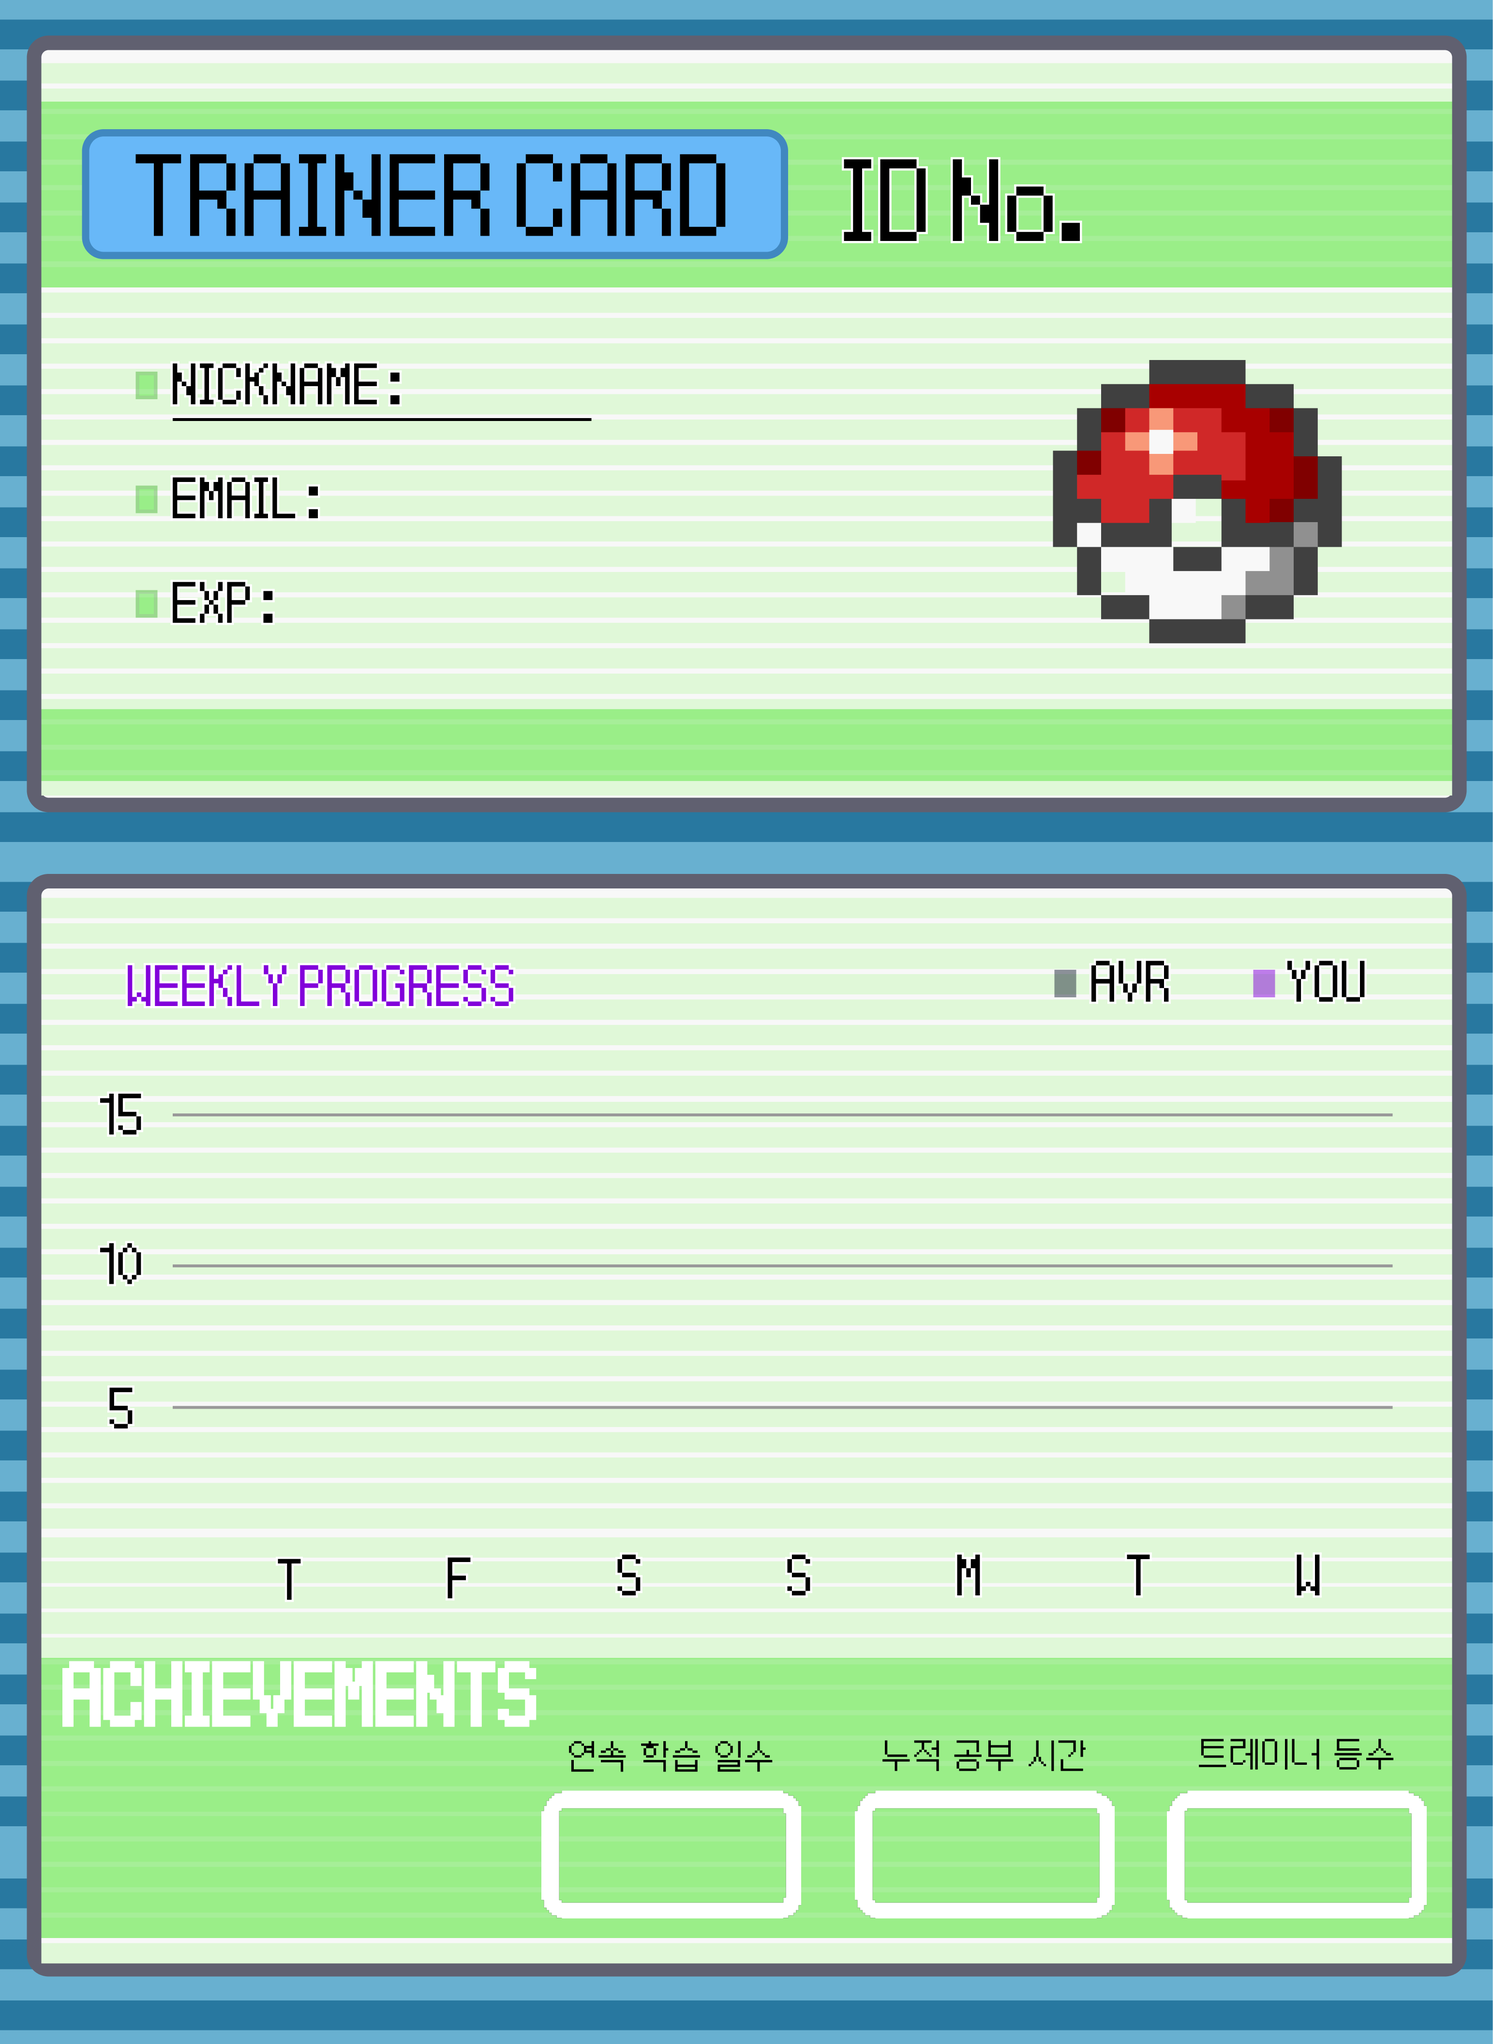
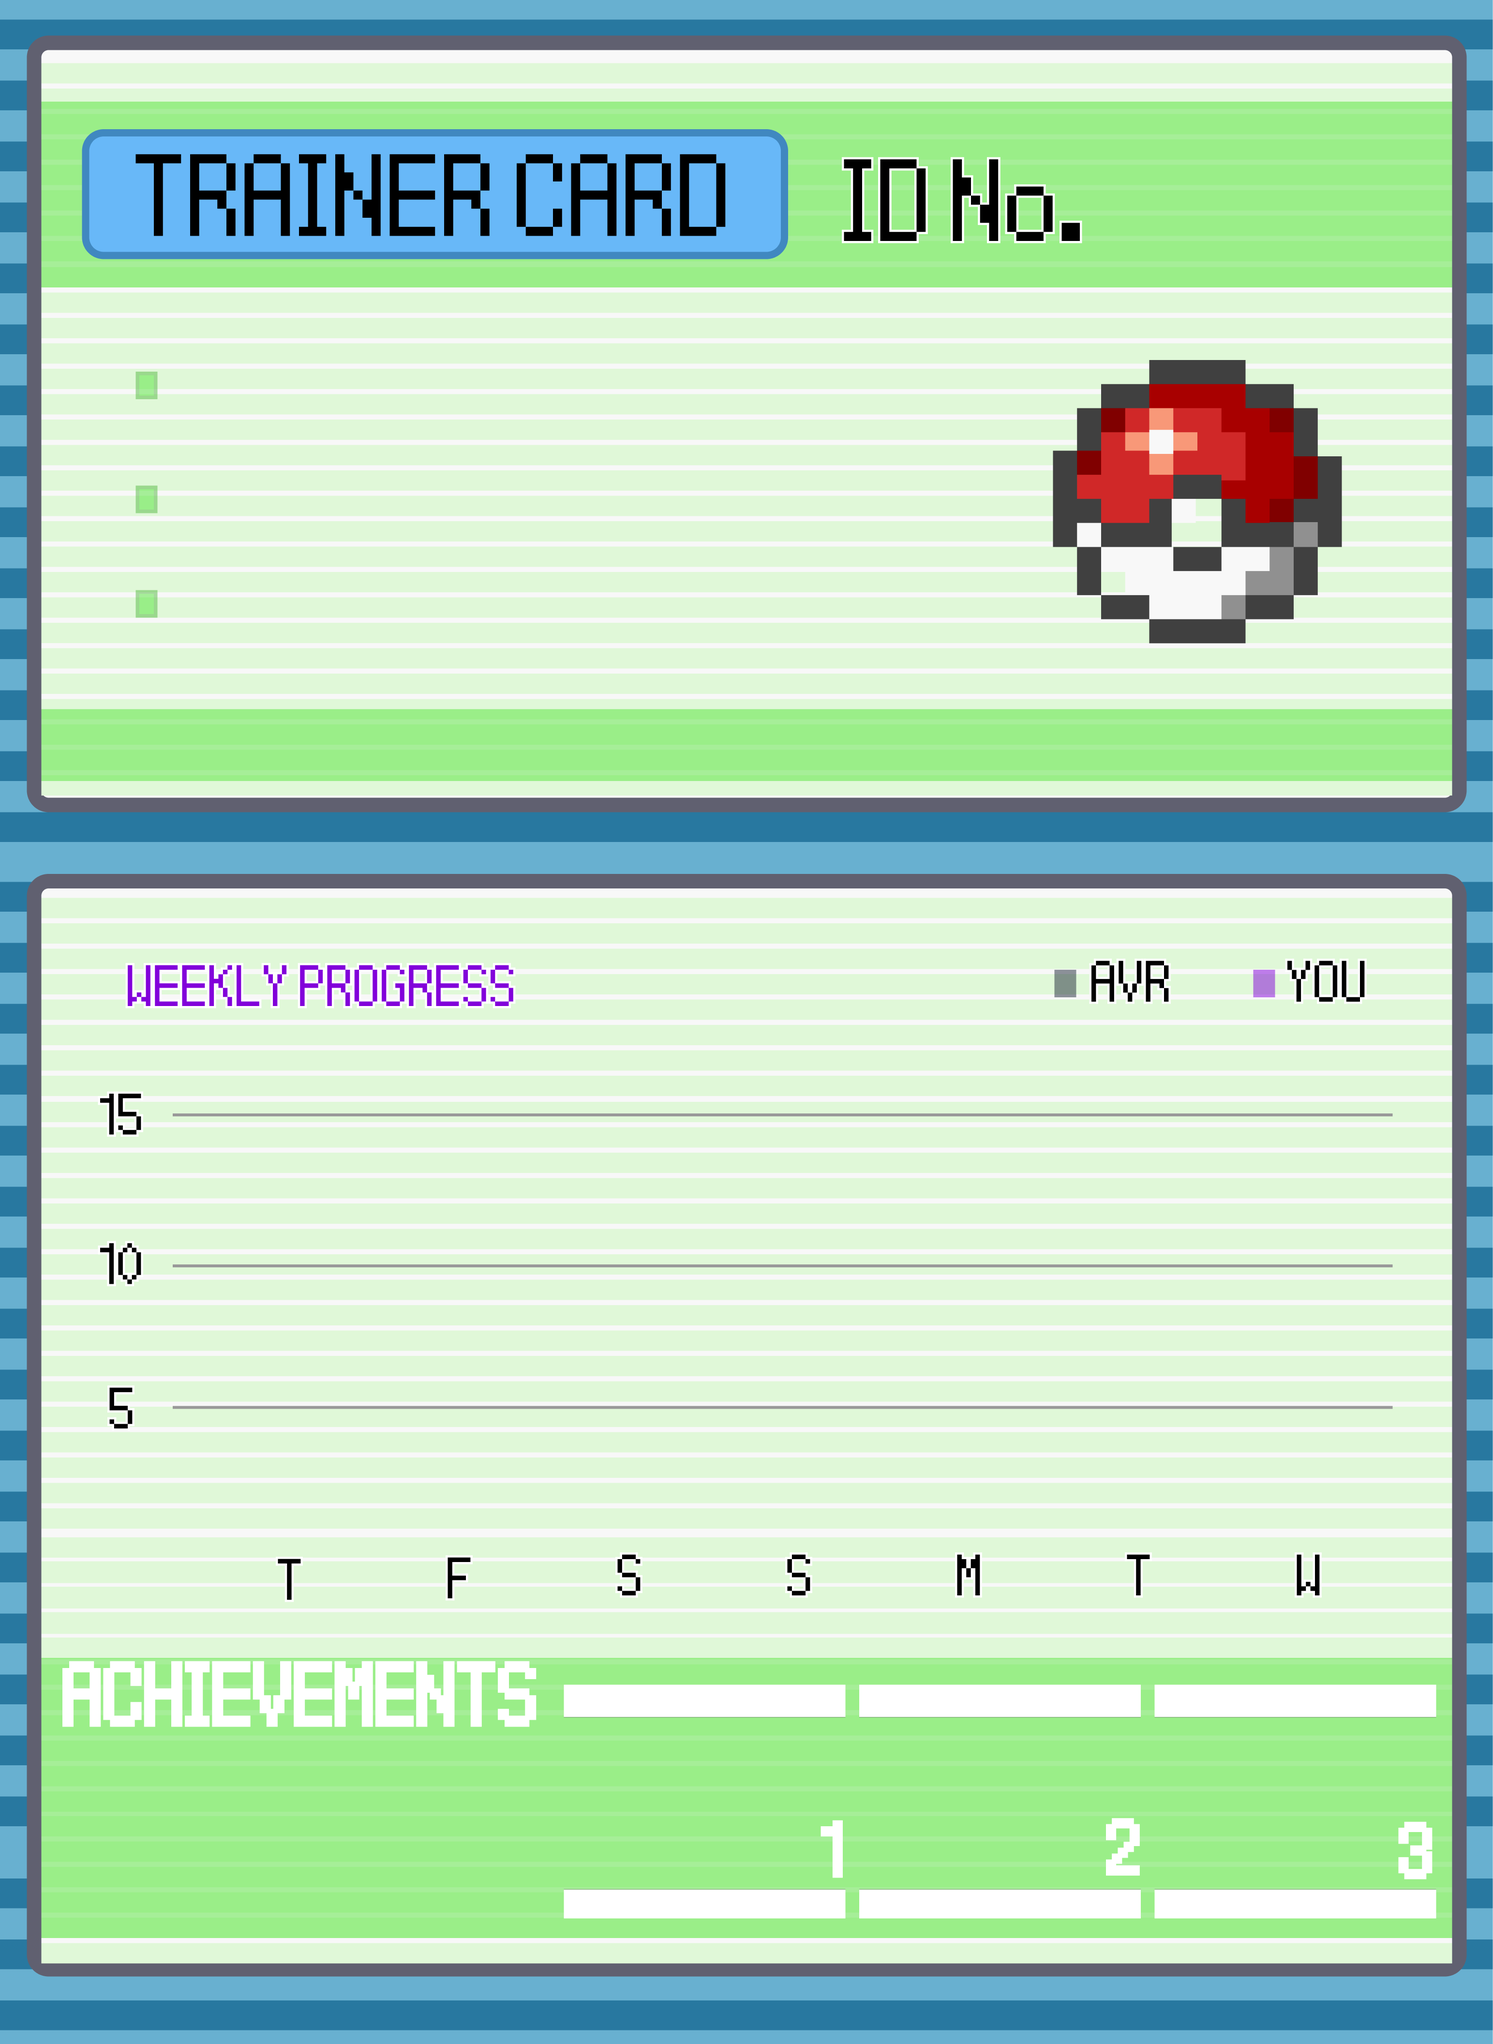
내 정보 카드 완성, 내용 정렬

Changed region(s): [[0.3422, 0.8125, 0.9644, 0.9375], [0.0933, 0.1562, 0.28, 0.25], [0.0933, 0.2812, 0.1866, 0.3125]]

diff --git a/front-end/src/components/MyPage.tsx b/front-end/src/components/MyPage.tsx
@@ -5,6 +5,7 @@ import { ImageWithFallback } from "./figma/ImageWithFallback";
 import logoutImg from "../assets/logout.png";
 import logo from "../assets/logo.png";
 import bg from "../assets/bg.png";
+import mycard from "../assets/mycard.png";
 
 interface MyPageProps {
     onHome?: () => void;
@@ -60,6 +61,33 @@ export function MyPage({ onHome, onBack, onLogout, onUpdateInfo }: MyPageProps) 
         { day: "W", avg: 3, you: 2 },
     ];
 
+    const cardData = {
+        id: "000123",
+        nickname: "피카츄트레이너",
+        email: "trainer@studymon.com",
+        exp: "12,340",
+        streakDays: 12,
+        totalHours: "142h 7m",
+        trainerRank: "245등",
+        weekly: weeklyData,
+    };
+
+    const cardSize = { width: 2057, height: 2816 }; // mycard.png 원본 사이즈
+    const cardCoords = {
+        id: { x: 1546, y: 220 },
+        nickname: { x: 295, y: 500 },
+        email: { x: 295, y: 750 },
+        exp: { x: 295, y: 1007 },
+        graph: { x: 240, y: 1200, width: 1700, height: 700 },
+        achievements: {
+            streak: { x: 956, y: 2400 },
+            total: { x: 1363, y: 2464 },
+            rank: { x: 1759, y: 2464 },
+        },
+    };
+
+    const pct = (value: number, total: number) => `${(value / total) * 100}%`;
+
     return (
         <div
             className="relative min-h-screen"
@@ -108,129 +136,132 @@ export function MyPage({ onHome, onBack, onLogout, onUpdateInfo }: MyPageProps) 
                     {/* Left Section - Profile */}
                     <div>
                         <h2 className="text-purple-700 mb-4">내 정보</h2>
-                        <Card className="p-6 bg-white/90 backdrop-blur-sm shadow-lg rounded-2xl border border-purple-200">
-                            {/* Profile */}
-                            <div className="flex items-center gap-4 mb-6">
-                                <div className="w-20 h-20 bg-gray-200 rounded-3xl flex items-center justify-center">
-                                    <User className="w-10 h-10 text-gray-400" />
-                                </div>
-                                <div className="flex-1">
-                                    <h3 className="text-purple-700">닉네임/닉네임</h3>
-                                    <p className="text-sm text-gray-500">아이디 :</p>
-                                    <p className="text-sm text-gray-500">이름 :</p>
-                                </div>
-                                <Button
-                                    variant="outline"
-                                    size="sm"
-                                    className="rounded-full border-purple-300 text-purple-600 hover:bg-purple-50"
-                                    onClick={onUpdateInfo}
-                                >
-                                    정보수정
-                                </Button>
+
+                        {/* 트레이너 카드 (mycard.png 오버레이) */}
+                        <div
+                            className="relative w-full max-w-2xl mx-auto mb-6 rounded-xl overflow-hidden shadow-xl"
+                            style={{
+                                backgroundImage: `url(${mycard})`,
+                                backgroundSize: "cover",
+                                backgroundPosition: "center",
+                                aspectRatio: "768 / 1051",
+                            }}
+                        >
+                            {/* ID (ID No. 우측) */}
+                            <div
+                                className="absolute text-lg font-bold text-gray-900 tracking-wide"
+                                style={{
+                                    left: pct(cardCoords.id.x, cardSize.width),
+                                    top: pct(cardCoords.id.y, cardSize.height),
+                                }}
+                            >
+                                {cardData.id}
                             </div>
 
-                            {/* Weekly Progress */}
-                            <div className="mb-4">
-                                <div className="flex items-center justify-between mb-2">
-                                    <h4 className="text-sm text-purple-700">WEEKLY PROGRESS</h4>
-                                    <div className="flex items-center gap-3 text-xs">
-                                        <span className="flex items-center gap-1">
-                                            <span className="w-2 h-2 bg-gray-800 rounded-full"></span>
-                                            AVG
-                                        </span>
-                                        <span className="flex items-center gap-1">
-                                            <span className="w-2 h-2 bg-purple-500 rounded-full"></span>
-                                            YOU
-                                        </span>
-                                    </div>
-                                </div>
+                            {/* Basic info (좌측 초록 네모 라인과 정렬) */}
+                            <div
+                                className="absolute text-sm font-semibold text-gray-900 space-y-4"
+                                style={{
+                                    left: pct(cardCoords.nickname.x, cardSize.width),
+                                    top: pct(cardCoords.nickname.y, cardSize.height),
+                                }}
+                            >
+                                <div className="leading-tight">NICKNAME: {cardData.nickname}</div>
+                                <div className="leading-tight" style={{ marginTop: "20px" }}>EMAIL: {cardData.email}</div>
+                                <div className="leading-tight" style={{ marginTop: "20px" }}>EXP: {cardData.exp}</div>
+                            </div>
 
-                                {/* Chart */}
-                                <div className="relative h-32 mb-2">
-                                    <svg className="w-full h-full" viewBox="0 0 280 120">
-                                        {/* Grid lines */}
-                                        {[0, 1, 2, 3, 4, 5].map((i) => (
-                                            <line
-                                                key={i}
-                                                x1="0"
-                                                y1={20 + i * 20}
-                                                x2="280"
-                                                y2={20 + i * 20}
-                                                stroke="#e5e7eb"
-                                                strokeWidth="1"
-                                            />
-                                        ))}
-
-                                        {/* AVG line */}
-                                        <polyline
-                                            points={weeklyData
-                                                .map((d, i) => `${40 * i + 20},${100 - d.avg * 20}`)
-                                                .join(" ")}
-                                            fill="none"
-                                            stroke="#1f2937"
-                                            strokeWidth="2"
+                            {/* Weekly chart overlay */}
+                            <div
+                                className="absolute"
+                                style={{
+                                    left: pct(cardCoords.graph.x, cardSize.width),
+                                    top: pct(cardCoords.graph.y, cardSize.height),
+                                    width: pct(cardCoords.graph.width, cardSize.width),
+                                    height: pct(cardCoords.graph.height, cardSize.height),
+                                }}
+                            >
+                                <svg className="w-full h-full" viewBox="0 0 280 120" preserveAspectRatio="none">
+                                    <polyline
+                                        points={cardData.weekly
+                                            .map((d, i) => `${40 * i + 20},${110 - d.avg * 6}`)
+                                            .join(" ")}
+                                        fill="none"
+                                        stroke="#555"
+                                        strokeWidth="2"
+                                    />
+                                    {cardData.weekly.map((d, i) => (
+                                        <circle
+                                            key={`avg-${i}`}
+                                            cx={40 * i + 20}
+                                            cy={110 - d.avg * 6}
+                                            r="3"
+                                            fill="#555"
                                         />
-                                        {weeklyData.map((d, i) => (
-                                            <circle
-                                                key={`avg-${i}`}
-                                                cx={40 * i + 20}
-                                                cy={100 - d.avg * 20}
-                                                r="3"
-                                                fill="#1f2937"
-                                            />
-                                        ))}
-
-                                        {/* YOU line */}
-                                        <polyline
-                                            points={weeklyData
-                                                .map((d, i) => `${40 * i + 20},${100 - d.you * 20}`)
-                                                .join(" ")}
-                                            fill="none"
-                                            stroke="#a855f7"
-                                            strokeWidth="2"
-                                        />
-                                        {weeklyData.map((d, i) => (
-                                            <circle
-                                                key={`you-${i}`}
-                                                cx={40 * i + 20}
-                                                cy={100 - d.you * 20}
-                                                r="3"
-                                                fill="#a855f7"
-                                            />
-                                        ))}
-                                    </svg>
-                                </div>
-
-                                {/* Days labels */}
-                                <div className="flex justify-around text-xs text-gray-600">
-                                    {weeklyData.map((d, i) => (
-                                        <span key={i}>{d.day}</span>
                                     ))}
-                                </div>
+
+                                    <polyline
+                                        points={cardData.weekly
+                                            .map((d, i) => `${40 * i + 20},${110 - d.you * 6}`)
+                                            .join(" ")}
+                                        fill="none"
+                                        stroke="#a855f7"
+                                        strokeWidth="2"
+                                    />
+                                    {cardData.weekly.map((d, i) => (
+                                        <circle
+                                            key={`you-${i}`}
+                                            cx={40 * i + 20}
+                                            cy={110 - d.you * 6}
+                                            r="3"
+                                            fill="#a855f7"
+                                        />
+                                    ))}
+                                </svg>
                             </div>
 
-                            {/* Stats */}
-                            <div className="flex gap-4 pt-4 border-t border-purple-100">
-                                <div className="flex items-center gap-2">
-                                    <span className="text-2xl">🔥</span>
-                                    <div>
-                                        <p className="text-xs text-gray-500">0 days</p>
+                            {/* Achievements row (하단 흰색 두 줄 사이) */}
+                            <div
+                                className="absolute left-0 right-0 text-xs font-semibold text-gray-900"
+                                style={{
+                                    top: pct(cardCoords.achievements.streak.y, cardSize.height),
+                                }}
+                            >
+                                <div className="relative w-full">
+                                    <div
+                                        className="absolute text-center"
+                                        style={{
+                                            left: pct(cardCoords.achievements.streak.x, cardSize.width),
+                                            transform: "translateX(-50%)",
+                                        }}
+                                    >
+                                        <div className="mb-1">연속 학습 일수</div>
+                                        <div className="text-base">{cardData.streakDays}일</div>
                                     </div>
-                                </div>
-                                <div className="flex items-center gap-2">
-                                    <span className="text-2xl">⏱</span>
-                                    <div>
-                                        <p className="text-xs text-gray-500">누적 93시간</p>
+                                    <div
+                                        className="absolute text-center"
+                                        style={{
+                                            left: pct(cardCoords.achievements.total.x, cardSize.width),
+                                            transform: "translateX(-50%)",
+                                        }}
+                                    >
+                                        <div className="mb-1">누적 공부 시간</div>
+                                        <div className="text-base">{cardData.totalHours}</div>
                                     </div>
-                                </div>
-                                <div className="flex items-center gap-2">
-                                    <span className="text-2xl">🏆</span>
-                                    <div>
-                                        <p className="text-xs text-gray-500">983 등</p>
+                                    <div
+                                        className="absolute text-center"
+                                        style={{
+                                            left: pct(cardCoords.achievements.rank.x, cardSize.width),
+                                            transform: "translateX(-50%)",
+                                        }}
+                                    >
+                                        <div className="mb-1">트레이너 등수</div>
+                                        <div className="text-base">{cardData.trainerRank}</div>
                                     </div>
                                 </div>
                             </div>
-                        </Card>
+                        </div>
+
                     </div>
 
                     {/* Right Section - My Pokemon */}
